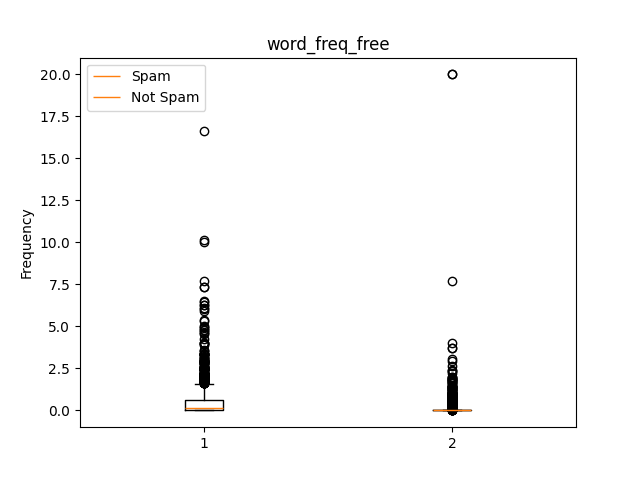
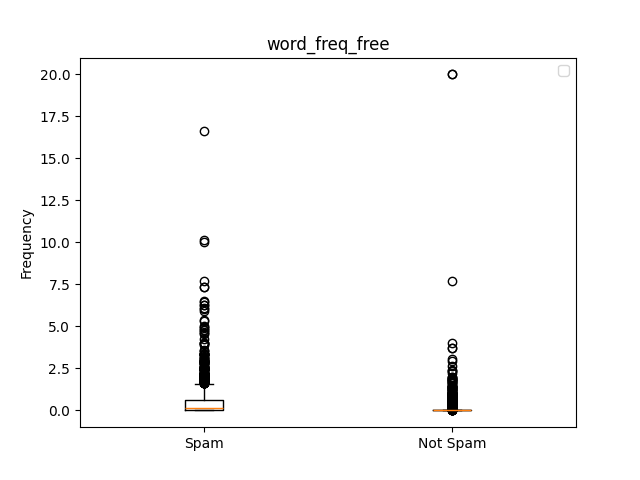
Used AI Reviewer to fix bugs in mini project

Changed region(s): [[0.125, 0.125, 0.3125, 0.2188], [0.6562, 0.9062, 0.75, 0.9375], [0.2812, 0.9062, 0.3438, 0.9375]]

diff --git a/assignment_03/project_03.py b/assignment_03/project_03.py
@@ -98,7 +98,7 @@ cats = ['word_freq_free', 'char_freq_!', 'capital_run_length_total']
 for label in cats:
     spam = df.loc[df['spam_label'] == 1, label]
     ham = df.loc[df['spam_label'] == 0, label]
-    plt.boxplot([spam,ham], label = ["Spam", "Not Spam"])
+    plt.boxplot([spam,ham], labels = ["Spam", "Not Spam"])
     plt.title(label)
     plt.ylabel('Frequency')
     plt.legend()
@@ -152,18 +152,17 @@ print(f"Classification Report: {classification_report(y_test, knn_predict2)}")
 
 depth = [3, 5, 10, None]
 for d in depth: 
-    dtree_train = DecisionTreeClassifier(max_depth = d, random_state = 42)
-    dtree_train.fit(x_train, y_train)
-    dtree_predict = dtree_train.predict(x_test)
-    print(f"Max Depth: {d}")
-    print(f"Train Accuracy Score(Decision Tree): {accuracy_score(y_test, dtree_predict)}")
-    print(f"Feature Importance: {dtree_train.feature_importances_}")
+    dtree = DecisionTreeClassifier(max_depth = d, random_state = 42)
+    dtree.fit(x_train, y_train)
 
-    dtree_test = DecisionTreeClassifier(max_depth = d, random_state = 42)
-    dtree_test.fit(x_test, y_test)
-    dtree_predict = dtree_train.predict(x_test)
-    print(f"Test Accuracy Score(Decision Tree): {accuracy_score(y_test, dtree_predict)}")
-    print(f"Feature Importance: {dtree_test.feature_importances_}")
+    train_pred = dtree.predict(x_train)
+    test_pred = dtree.predict(x_test)
+
+    print(f"Max Depth: {d}")
+    print(f"Train Accuracy Score(Decision Tree): {accuracy_score(y_train, train_pred)}")
+    print(f"Test Accuracy Score(Decision Tree): {accuracy_score(y_test, test_pred)}")
+
+    print(f"Feature Importance: {dtree.feature_importances_}")
 
 
     # Accuracy increases with max depth because there 
@@ -176,6 +175,7 @@ dtree.fit(x_train, y_train)
 dtree_predict = dtree.predict(x_test)
 print(f"Scaled Accuracy Score(KNN): {accuracy_score(y_test, dtree_predict)}")
 print(f"Classification Report: {classification_report(y_test, dtree_predict)}")
+
 importance_df_tree = pd.DataFrame({
     'Feature': x_train.columns,
     'Importance': dtree.feature_importances_})
@@ -187,18 +187,37 @@ importance_df_rf = pd.DataFrame({
     'Feature': x_train.columns,
     'Importance': rf.feature_importances_})
 
-logreg1 = LogisticRegression(C=1.0, max_iter=1000, solver='liblinear')
-logreg1.fit(x_train, y_train)
+logreg_scale = LogisticRegression(C=1.0, max_iter=1000, solver='liblinear')
+logreg_scale.fit(x_train_scaled, y_train)
+logreg_scale_pred = logreg_scale.predict(x_test_scaled)
+print(f"Accuracy (Scaled): {accuracy_score(y_test, logreg_scale_pred):.4f}")
+print(f"Classification Report (Scaled): {classification_report(y_test, logreg_scale_pred)}")
 
-logreg2 = LogisticRegression(C=1.0, max_iter=1000, solver='liblinear')
-logreg2.fit(x_train_scaled, y_train)
+logreg_pca = LogisticRegression(C=1.0, max_iter=1000, solver='liblinear')
+logreg_pca.fit(X_train_pca, y_train)
+logreg_pca_pred = logreg_pca.predict(X_test_pca)
+print(f"Accuracy (PCA): {accuracy_score(y_test, logreg_pca_pred):.4f}")
+print(f"Classification Report (PCA): {classification_report(y_test, logreg_pca_pred)}")
+# The scaled data had a marginally higher accuracy score (.9294 vs 0.9186 for PCA).
 
-fig, [ax1, ax2] = plt.subplots(1,2)
-ax1.bar(importance_df_rf['Features'], importance_df_tree['Importance'])
+# Unscaled KNN data had the lowest 
+# accuracy overall, problem because 
+# it was weighting certain data heavier 
+# than other. The Decision tree with a max 
+# iter of Non had an almost perfect 
+# accuracy score. Other testing fell in 
+# the middle with accuracy mostly in the 
+# low 90th percentile.
+
+top10_rf = importance_df_rf.nlargest(10, 'Importance')
+top10_tree = importance_df_tree.nlargest(10, 'Importance')
+
+fig, [ax1, ax2] = plt.subplots(1,2, figsize=(14, 6))
+ax1.bar(top10_rf['Feature'], top10_rf['Importance'])
 ax1.set_title('Important Features (Random Forest)')
 ax1.set_xlabel('Features')
 
-ax2.bar(importance_df_tree['Features'], importance_df_tree['Importance'])
+ax2.bar(top10_tree['Feature'], top10_tree['Importance'])
 ax2.set_title('Important Features (Decision Tree)')
 ax2.set_xlabel('Features')
 
@@ -217,26 +236,37 @@ def get_cv(model, x, y, label):
 
 get_cv(unscaled_knn, x_train, y_train, 'Unscaled KNN')
 get_cv(knn, x_train_scaled, y_train, 'Scaled KNN')
+get_cv(knn, X_train_pca, y_train, 'PCA KNN')
 get_cv(dtree, x_train, y_train, 'Decision Tree')
 get_cv(rf, x_train, y_train, 'Random Forest')
-get_cv(logreg1, x_train, y_train, 'Unscaled Logistical Regression')
-get_cv(logreg2, x_train_scaled, y_train, 'Scaled Logistical Regression')
+get_cv(logreg_scale, x_train_scaled, y_train, 'Scaled Logistical Regression')
+get_cv(logreg_pca, x_train_scaled, y_train, 'Scaled Logistical Regression')
 
 # --- Task 5: Building a Prediction Pipeline --- #
-pca_pipeline = Pipeline([
-    ("scaler",     StandardScaler()),
-    ("pca",        PCA(n_components=n)),  # use your n_components from Task 2
+non_tree_pipeline = Pipeline([
+    ("scaler", StandardScaler()),
+    ("pca", PCA(n_components=n)),  # 'n' calculated in Task 2
     ("classifier", LogisticRegression(C=1.0, max_iter=1000, solver='liblinear'))
 ])
 
-tree_pipeline = Pipeline([
-    ("train", train_test_split())
-    ("classifier", DecisionTreeClassifier(max_depth = None, random_state = 42))
-    ("report", classification_report())
-])
+non_tree_pipeline.fit(x_train, y_train)
+non_tree_pred = non_tree_pipeline.predict(x_test)
+print(f"Classification Report (Non Tree): {classification_report(y_test, non_tree_pred)}")
 
-knn_pipeline = Pipeline([
-    ("train", train_test_split())
-    ("classifiear", KNeighborsClassifier(n_neighbors=5))
-    ("report", classification_report())
+tree_pipeline = Pipeline([
+    ("classifier", RandomForestClassifier(n_estimators=100, random_state=42))
 ])
+tree_pipeline.fit(x_train, y_train)
+tree_pred = tree_pipeline.predict(x_test)
+
+print(f"Classification Report (Tree): {classification_report(y_test, tree_pred)}")
+
+# The non-tree pipeline includes preprocessing steps (StandardScaler and PCA) 
+# because distance- and gradient-based algorithms (like Logistic Regression and KNN) 
+# are sensitive to differing feature scales and high dimensionality. The tree pipeline 
+# contains only the classifier because Decision Trees and Random Forests split features 
+# independently on single feature thresholds and are invariant to scaling.
+#
+# Packaging models into Pipelines prevents data leakage (scalers/PCA fit strictly on 
+# training folds during cross-validation), simplifies deployment, and ensures that raw 
+# unseen test data undergoes identical transformations without manual bookkeeping.

diff --git a/assignment_03/warmup_03.py b/assignment_03/warmup_03.py
@@ -31,8 +31,13 @@ print(f"Y Test Shape: {y_test.shape}")
 scaler = StandardScaler()
 x_train_scaled = scaler.fit_transform(x_train)
 x_test_scaled = scaler.transform(x_test)
-print(f"X Train Mean: {x_train_scaled}")
-print(f"X Test Mean: {x_test_scaled}")
+print(f"X Train Mean: {x_train_scaled.mean}")
+
+means = x_train_scaled.mean(axis=0)
+for i in range(len(x_train.columns)):
+    col_name = x_train.columns[i]
+    mean_val = means[i]
+    print(f"{col_name}: {mean_val:.4e}")
 
 # If the scaler is fit to the test data 
 # it means it's acciently "seen" it which 
@@ -135,9 +140,10 @@ print(f"Image Shape: {images.shape}")
 
 fig, axes = plt.subplots(1, 10, figsize = (12,5))
 for i in range(10):
+    img_idx = np.where(y_digits == i)[0][0]
     ax = axes[i]
-    ax.imshow(images[i], cmap='gray_r')
-    ax.set_title(f'Image {i}')
+    ax.imshow(images[img_idx], cmap='gray_r')
+    ax.set_title(f'Digit {i}')
 plt.suptitle('Digit Display')
 plt.tight_layout()
 plt.savefig('assignment_03/outputs/sample_digits.png')
@@ -185,7 +191,7 @@ def reconstruct_digit(sample_idx, scores, pca, n_components):
     return reconstruction.reshape(8, 8)
 
 n = [2, 5, 15, 40]
-reconstruction = reconstruct_digit(X_digits[0:5], scores, pca, n)
+reconstruction = reconstruct_digit(X_digits[:4], scores, pca, n)
 
 fig, axes = plt.subplots(4,5, figsize=(4,5))
 
